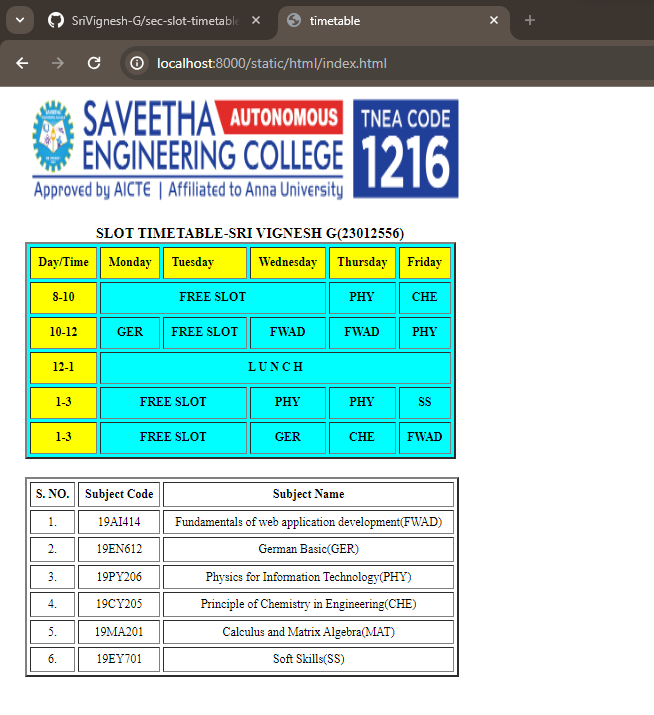
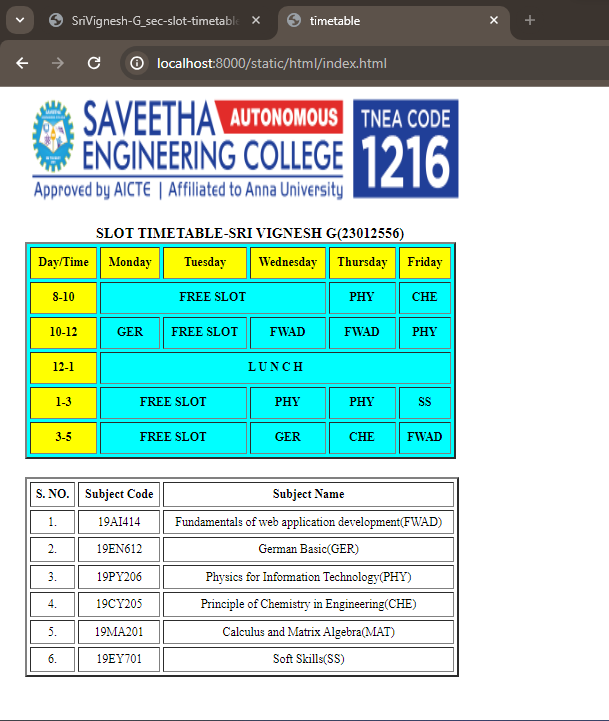
final commit

Changed region(s): [[0.0312, 0.3077, 0.78, 0.9538], [0.0312, 0.0, 0.78, 0.2769], [0.7488, 0.0, 0.8424, 0.0615]]

diff --git a/myproj/static/html/index.html b/myproj/static/html/index.html
@@ -8,7 +8,7 @@
     <div style="padding-top: 20px; margin-left: 120px; font-size: larger; font-weight: bold;">SLOT TIMETABLE-SRI VIGNESH G(23012556)</div>
  <div style="font-size: medium; font-weight: bold; padding-left: 25px;">
     <table border="3" bgcolor="cyan" cellspacing="5" cellpadding="10px">
-<TR bgcolor="yellow" >
+<TR bgcolor="yellow" align="center">
     <TD>Day/Time</TD>
     <TD>Monday</TD>
     <TD>Tuesday</TD>
@@ -22,8 +22,8 @@
     <TD align="center">PHY</TD>
     <TD align="center">CHE</TD>
 </TR>
-<TR align="center" height="2.5%">
-    <TD  bgcolor="yellow" align="center">10-12</TD>
+<TR align="center" >
+    <TD  bgcolor="yellow">10-12</TD>
     <TD>GER</TD>
     <TD>FREE SLOT</TD>
     <TD>FWAD</TD>
@@ -31,18 +31,18 @@
     <TD>PHY</TD>
 </TR>
 <TR  align="center">
-    <TD  bgcolor="yellow" align="center">12-1</TD>
+    <TD  bgcolor="yellow">12-1</TD>
     <TD colspan="5">L U N C H</TD>
 </TR>
 <TR  align="center" font-weight="bold">
-    <TD  bgcolor="yellow" align="center">1-3</TD>    
+    <TD  bgcolor="yellow">1-3</TD>    
     <TD colspan="2">FREE SLOT</TD>
     <TD>PHY</TD>
     <TD>PHY</TD>
     <TD>SS</TD>
 </TR>
 <TR align="center" FONT-WEIGHT="bold">
-    <TD bgcolor="yellow" align="center">1-3</TD>
+    <TD bgcolor="yellow">3-5</TD>
     <td colspan="2">FREE SLOT</td>
     <td>GER</td>
     <td>CHE</td>
